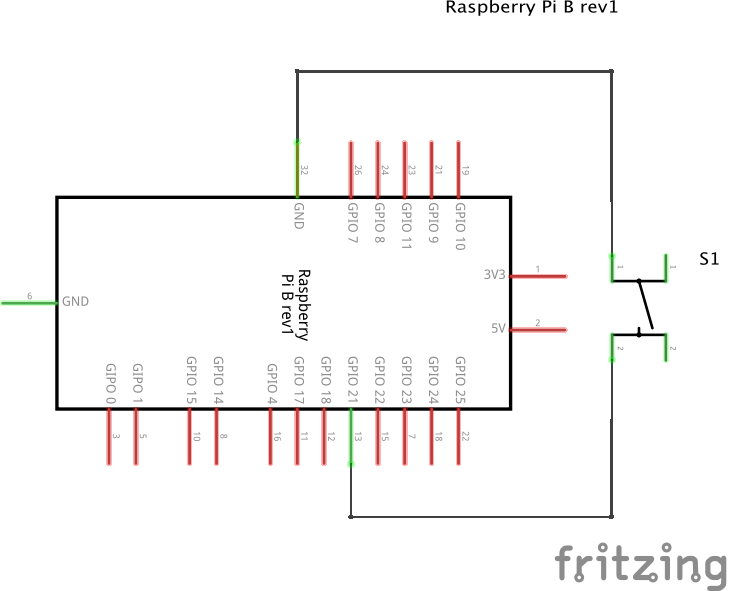
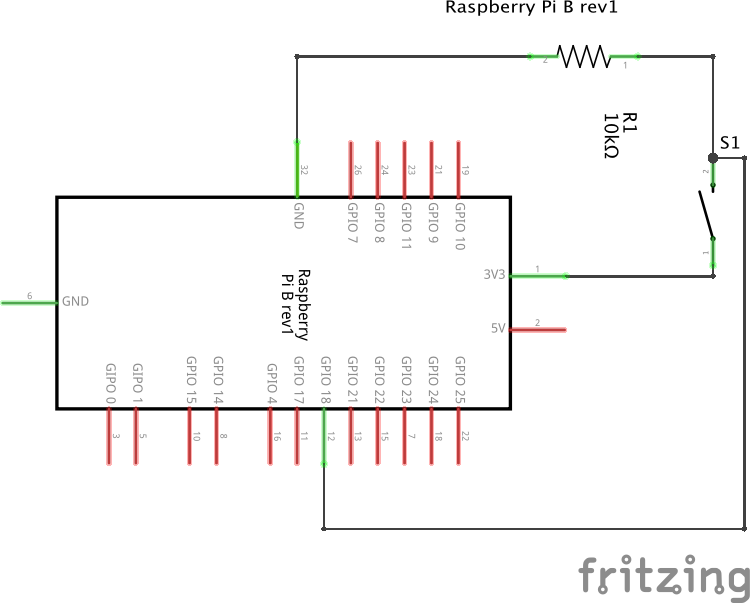
changes for infrared examples

Changed region(s): [[0.0, 0.0609, 0.9959, 0.8832], [0.7545, 0.9137, 0.9959, 1.0], [0.5734, 0.0, 0.845, 0.0305]]

diff --git a/infrared/pi/pi-simple-infrared.py b/infrared/pi/pi-simple-infrared.py
@@ -1,0 +1,49 @@
+#!/usr/bin/env python
+"""
+This script reads a pushbutton until the user aborts
+Taken from http://razzpisampler.oreilly.com/ch07.html
+"""
+
+import sys # we need this to exit if the GPIO lib is not present
+import time # for timing
+
+PIN = 12
+
+# Check if the GPIO lib exist on this system
+try:
+    import RPi.GPIO as GPIO
+    print "GPIO Lib is present. Moving on"
+except ImportError:
+    print "GPIO Lib is not installed. Stopping program"
+    print "Please install it with the commands:"
+    print "$ sudo apt-get update && sudo apt-get upgrade"
+    print "$ sudo apt-get install rpi.gpio"
+    sys.exit()
+  # end program if lib not there
+
+def setup():
+    """Setup all that stuff"""
+    print "setup GPIO"
+    GPIO.setmode(GPIO.BOARD)
+    GPIO.setup(PIN, GPIO.IN)
+    print "setup GPIO done"
+
+# now run all of that
+if __name__ == '__main__':
+    try:
+        setup()
+        while True:
+            input_state = GPIO.input(PIN)
+            if input_state == True:
+                print "Messsage received"
+                time.sleep(0.2)
+            # else:
+                # print "Button is not pressed"
+                # time.sleep(0.2)
+
+    except KeyboardInterrupt:
+        print "\nbye bye"
+        GPIO.cleanup()
+    finally:
+        print "\nbye bye"
+        GPIO.cleanup()
